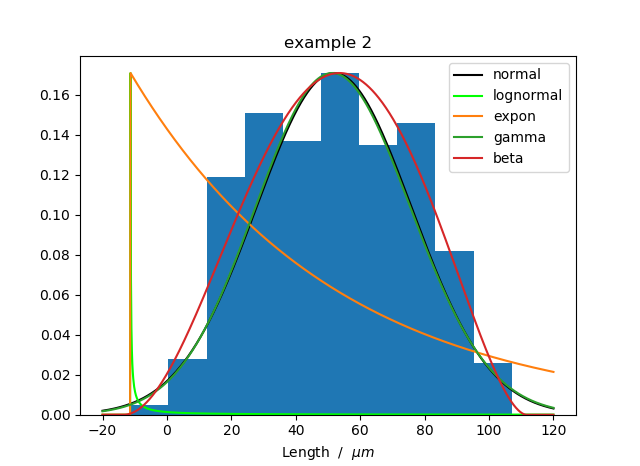
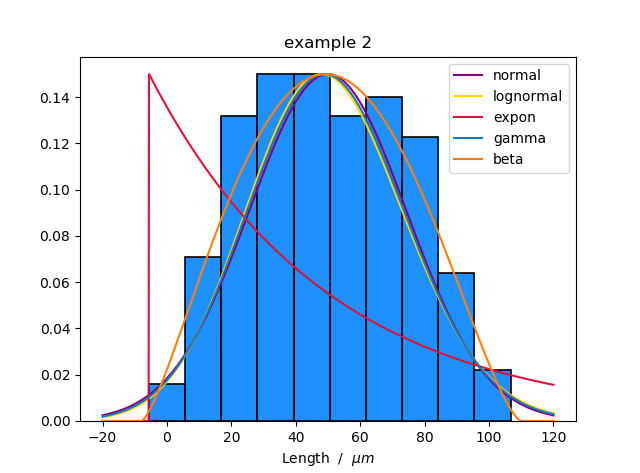
find last row in excel files for histogram - added; corrected plot renderings algorithm

diff --git a/pdsfit.py b/pdsfit.py
@@ -18,25 +18,28 @@ import numpy as np
 import matplotlib.pylab as plt
 import xlwings as xw
 
-'''make your own database
-*you may use my database template XRD_database_template.py
-at https://github.com/andrewrgarcia/xrd'''
-from dist_database import excelbook
-book, label = excelbook()
+'''lastRow credit: answered Sep 14 '16 at 11:39  -  Stefan 
+https://stackoverflow.com/questions/33418119/xlwings-function-to-find-the-last-row-with-data'''
+def lastRow(idx, workbook, col=1):
+    """ Find the last row in the worksheet that contains data.
 
+    idx: Specifies the worksheet to select. Starts counting from zero.
 
-end = 490
+    workbook: Specifies the workbook
 
+    col: The column in which to look for the last cell containing data.
+    """
 
-diam =   book.sheets['Results'].range( 'I2:I'+str(end) ).value 
-feret =   book.sheets['Results'].range( 'D2:D'+str(end) ).value 
-minferet =   book.sheets['Results'].range( 'H2:H'+str(end) ).value 
+    ws = workbook.sheets[idx]
 
+    lwr_r_cell = ws.cells.last_cell      # lower right cell
+    lwr_row = lwr_r_cell.row             # row of the lower right cell
+    lwr_cell = ws.range((lwr_row, col))  # change to your specified column
 
-'''some random noisy data (examples)'''
-#ex1 = np.random.normal(10, 10, 1000)
-#ex2 = 2*np.random.uniform(1,40, 1000) + np.random.normal(10, 10, 1000)
-#ex3 = 3*np.random.exponential(4,1000)
+    if lwr_cell.value is None:
+        lwr_cell = lwr_cell.end('up')    # go up untill you hit a non-empty cell
+
+    return lwr_cell.row
 
 
 def make(data,name,pds=['gauss','lognorm','expon','gamma','beta']):
@@ -46,20 +49,20 @@ def make(data,name,pds=['gauss','lognorm','expon','gamma','beta']):
     'plot density histogram'
     wts = np.ones_like(data) / float(len(data))
     
-    plt.hist(data,stacked =True, weights=wts,color='navy')
-
+    n, bins, patches = plt.hist(data,stacked =True, weights=wts,\
+                                color='dodgerblue',edgecolor='k',linewidth=1.2)
+#    plt.show()
+    
     '''find minimum and maximum of xticks, so we know
      where we should compute theoretical distribution'''
     xt = plt.xticks()[0]  
     xmin, xmax = min(xt), max(xt)  
     
-#    N_lspc = len(data)
-    N_lspc = 1000
-
-    lspc = np.linspace(xmin, xmax, N_lspc)
+    lspc = np.linspace(xmin, xmax, 1000)
     
     'to scale normalized bins with fits'
-    max_normbins = np.max (hist(data, stacked =True, weights=wts)[0])
+#    max_normbins = np.max(hist(data, stacked =True, weights=wts)[0])
+    max_normbins = np.max(n)
 
     
     '''*NORMAL DISTRIBUTION (GAUSSIAN)'''
@@ -71,7 +74,7 @@ def make(data,name,pds=['gauss','lognorm','expon','gamma','beta']):
         pdf_g = stats.norm.pdf(lspc, m, s)  * (max_normbins/max_pdf)     
     #    plt.plot(lspc, pdf_g,label="Normal " + name) # plot it
     
-        plt.plot(lspc, pdf_g,color='k',label='normal') 
+        plt.plot(lspc, pdf_g,color='purple',label='normal') 
     
     #    print(name, 'distribution fit statistics')
         print('')
@@ -100,7 +103,7 @@ def make(data,name,pds=['gauss','lognorm','expon','gamma','beta']):
         max_pdf = np.max(stats.lognorm.pdf(lspc, s,loc,scale))
         pdf_logn = stats.lognorm.pdf(lspc, s,loc,scale) * (max_normbins/max_pdf)
         
-        plt.plot(lspc, pdf_logn,color='lime',label="lognormal") # plot it
+        plt.plot(lspc, pdf_logn,color='gold',label="lognormal") # plot it
         
         plt.xlabel('Length  /  $\mu m$')
         print('\n lognormal: \n s {} loc {} scale {} \
@@ -115,7 +118,7 @@ def make(data,name,pds=['gauss','lognorm','expon','gamma','beta']):
         max_pdf = np.max(stats.expon.pdf(lspc, loc,scale))
         pdf_expon = stats.expon.pdf(lspc, loc,scale)  * (max_normbins/max_pdf)   
         
-        plt.plot(lspc, pdf_expon,label="expon")
+        plt.plot(lspc, pdf_expon,color='crimson',label="expon")
         print('\n exponential: \n loc {} scale {} \
               \n '.format(loc,scale))
         
@@ -153,21 +156,35 @@ def make(data,name,pds=['gauss','lognorm','expon','gamma','beta']):
     plt.title(name)
     plt.legend()
     
-    plt.show()  
-    
-    
+
+'''MAKE YOUR OWN DATABASE
+*you may use my database template XRD_database_template.py
+at https://github.com/andrewrgarcia/xrd'''
+from dist_database import excelbook
+book, label = excelbook('SEM')
+
+idx = 'Results'
+diam =   book.sheets[idx].range( 'I2:I'+str(lastRow(idx,book)) ).value 
+feret =   book.sheets[idx].range( 'D2:D'+str(lastRow(idx,book)) ).value 
+minferet =   book.sheets[idx].range( 'H2:H'+str(lastRow(idx,book)) ).value     
+
 #make(feret,label+' (Feret Long)',pds=['gauss','lognorm'])
 #make(minferet,label+' (Feret Short)',pds=['gauss','lognorm'])
-make(diam,label+' (Diameter)',pds=['gauss','lognorm'])
-
+#make(diam,label+' (Diameter)',pds=['gauss','lognorm'])
 #make(diam,label+' (Diameter)')
+'''------------------------------------------------------------------------'''
+
+
+'''some random noisy data (examples)'''
+ex1 = np.random.normal(10, 10, 1000)
+ex2 = 2*np.random.uniform(1,40, 1000) + np.random.normal(10, 10, 1000)
+ex3 = 3*np.random.exponential(4,1000)
+
+make(ex1,'example 1')
+make(ex2,'example 2')
+make(ex3,'example 3')
+'''------------------------------------------------------------------------'''
+
 
 book.close()
-
-
-
-#make(ex1,'example 1')
-#make(ex2,'example 2')
-#make(ex3,'example 3')
-
 
